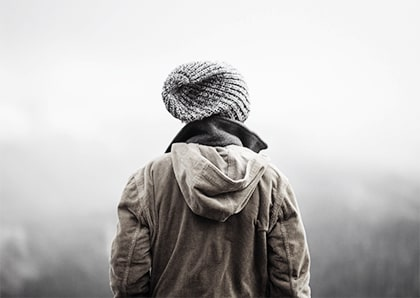
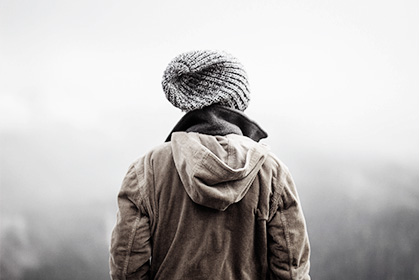
reload images

diff --git a/html-css/module-3/index.html b/html-css/module-3/index.html
@@ -25,7 +25,7 @@
                <ul>
                   <li class="li-section">
                         <article>
-                              <img src="./img/woman.jpg" alt="фото девушки" width="420" height="280">
+                              <img src="./img/woman.jpg" alt="фото девушки">
                               <p class="sub-img">
                                  lifestyle
                               </p>
@@ -39,7 +39,7 @@
                   </li>
                   <li class="li-section">
                         <article>
-                              <img src="./img/coffe.jpg" alt="чашка кофе" width="420" height="280">
+                              <img src="./img/coffe.jpg" alt="чашка кофе">
                               <p class="sub-img">
                                  lifestyle
                               </p>
@@ -53,7 +53,7 @@
                   </li>
                   <li class="li-section">
                         <article>
-                              <img src="./img/girls.jpg" alt="девушки на фоне моста" width="420" height="280">
+                              <img src="./img/girls.jpg" alt="девушки на фоне моста">
                               <p class="sub-img">
                                  photodiary
                               </p>
@@ -67,7 +67,7 @@
                   </li>
                   <li class="li-section">
                         <article>
-                              <img src="./img/boy.jpg" alt="парень в шапке" width="420" height="280">
+                              <img src="./img/boy.jpg" alt="парень в шапке">
                               <p class="sub-img">
                                  photodiary
                               </p>
@@ -81,7 +81,7 @@
                   </li>
                   <li class="li-section">
                         <article>
-                              <img src="./img/girl_in_a_hat.jpg" alt="парень в шапке" width="420" height="280">
+                              <img src="./img/girl_in_a_hat.jpg" alt="парень в шапке">
                                <p class="sub-img">
                                  photodiary
                               </p>
@@ -95,7 +95,7 @@
                   </li>
                   <li class="li-section">
                         <article>
-                              <img src="./img/road.jpg" alt="парень в шапке" width="420" height="280">
+                              <img src="./img/road.jpg" alt="парень в шапке">
                               <p class="sub-img">
                                  photodiary
                               </p>

diff --git a/html-css/module-4/index.html b/html-css/module-4/index.html
@@ -88,7 +88,7 @@
             <ul>
                 <li class="latest-news">
                     <article class="news">
-                        <img class="img-box-news" src="./img/ipad.png" alt="product" >
+                        <img class="img-box-news" src="./img/ipad.jpg" alt="product" >
                         <h3 class="name-news">Lorem Ipsum. Proin gravida nibh vel velit auctor aliquet. Aenean</h3>
                         <p class="text-news">Nam nec tellus a odio tincidunt auc. Duis sed odio sit amet nibh vulputate cursus a sit amet mauris. Morbi accumsan ipsum velit. Nam nec tellus a odio tincidunt </p>
                         <button>Read More</button>
@@ -96,7 +96,7 @@
                 </li>
                 <li class="latest-news">
                     <article class="news">
-                        <img class="img-box-news" src="./img/slide1.png" alt="product" >
+                        <img class="img-box-news" src="./img/slide1.jpg" alt="product" >
                         <h3 class="name-news">Lorem Ipsum. Proin gravida nibh vel velit auctor aliquet. Aenean</h3>
                         <p class="text-news">Nam nec tellus a odio tincidunt auc. Duis sed odio sit amet nibh vulputate cursus a sit amet mauris. Morbi accumsan ipsum velit. Nam nec tellus a odio tincidunt </p>
                         <button>Read More</button>
@@ -104,7 +104,7 @@
                 </li>
                 <li class="latest-news">
                     <article class="news">
-                        <img class="img-box-news" src="./img/bass.png" alt="product" >
+                        <img class="img-box-news" src="./img/bass.jpg" alt="product" >
                         <h3 class="name-news">Lorem Ipsum. Proin gravida nibh vel velit auctor aliquet. Aenean</h3>
                         <p class="text-news">Nam nec tellus a odio tincidunt auc. Duis sed odio sit amet nibh vulputate cursus a sit amet mauris. Morbi accumsan ipsum velit. Nam nec tellus a odio tincidunt </p>
                         <button>Read More</button>

diff --git a/html-css/module-4/css/style.css b/html-css/module-4/css/style.css
@@ -86,13 +86,6 @@ a{
             /* /HEADER */
 
             /* MAIN */
-img{
-    display: block;
-    width: 100%;
-    height: auto;
-        
-}
-
 h2{
     font-size: 38px;
     letter-spacing: -1px;
@@ -118,18 +111,30 @@ h2::after{
 
 section{
     margin: 0;
-    margin-bottom: 100px;
+    margin-bottom: 84px;
 }
 .product{
     display: inline-block;
     margin-right: 30px;
     margin-bottom: 30px;
+    height: auto;
+    
 }
 
 .product:nth-child(4n){
     margin-right: 0;
 }
 
+.product:nth-child(n+5){
+    margin-bottom: 0;
+}
+
+img{
+    display: block;
+    width: 100%;
+    height: auto;
+        
+}
 .product-box{
     font-size: 0;
     width: 255px;
@@ -144,12 +149,14 @@ section{
     box-sizing: border-box;
     width: 255px;
     height: 282px;
+    line-height: 282px;
     margin: 0;
     padding: 0;
     /* display: inline-block; */
     background: #E9F0FD;
        
 }
+
 
 .name-product{
     display: inline-block;
